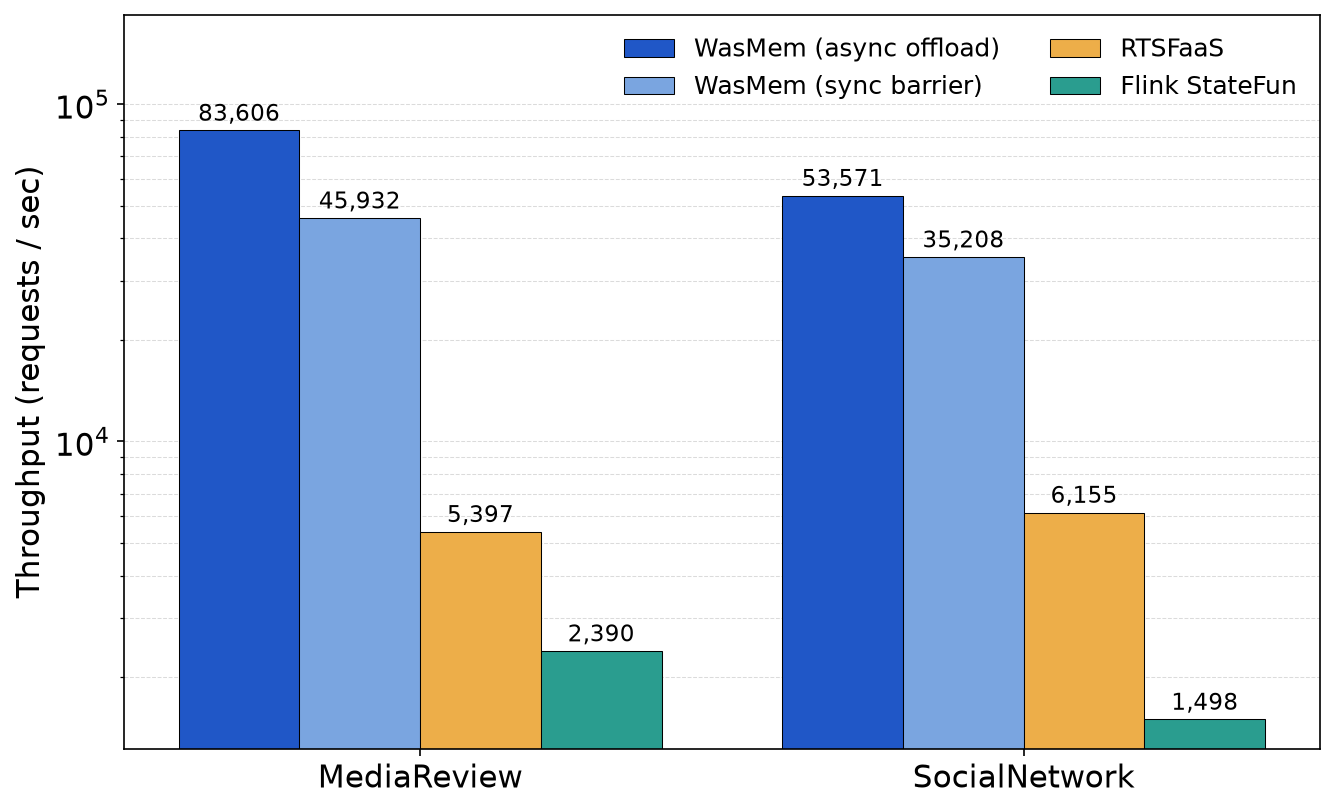
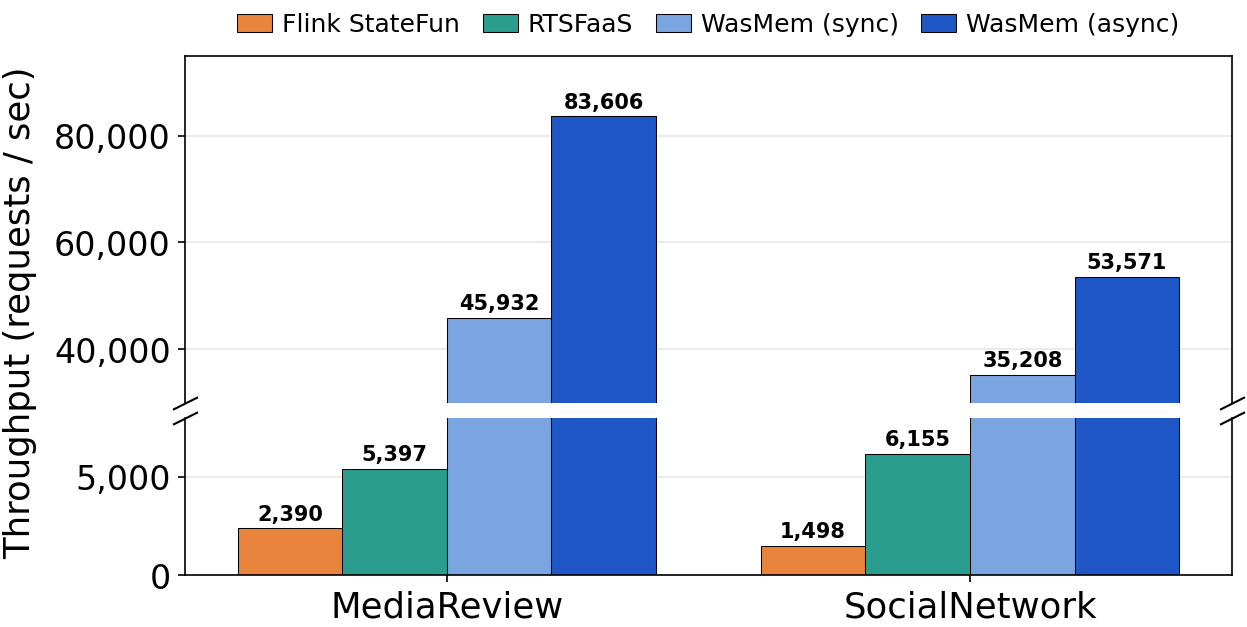
update the stream graph

diff --git a/Tests/Streaming Application_Benchmark/intra-node/plot.py b/Tests/Streaming Application_Benchmark/intra-node/plot.py
@@ -5,7 +5,10 @@
 # Grouped bars, throughput in requests/sec (= events/sec; fixed-batch max-rate,
 # single machine, 8-core budget). WasMem is shown WITH fault tolerance in two
 # modes — async offload (durable by end of run) and sync barrier (durable before
-# the next stage) — while RTSFaaS / Flink StateFun are FT-off. Log y (spread ~1.5k..84k).
+# the next stage) — while RTSFaaS / Flink StateFun are FT-off. The spread is
+# ~1.5k..84k with nothing in between, so instead of a log axis we use a two-level
+# broken (split) linear y-axis: a lower band (0..8k) for the RTSFaaS / StateFun
+# baselines and an upper band (30k..95k) for the WasMem bars.
 #
 # Reads the measured CSVs:
 #   results_was_ft_modes.csv      (ft_mode = async / sync_barrier)  -> WasMem
@@ -18,16 +21,18 @@ import os
 import matplotlib
 matplotlib.use('Agg')
 import matplotlib.pyplot as plt
+import matplotlib.ticker as mticker
 import numpy as np
 
 HERE = os.path.dirname(os.path.abspath(__file__))
 FIGS = os.path.join(HERE, 'figs')
 os.makedirs(FIGS, exist_ok=True)
 
-TICK_SIZE = 15
-LABEL_SIZE = 15
-LEGEND_SIZE = 16
-YLABEL_SIZE = 15
+# Font sizes matched to the application-benchmark figures (plot_mem_largest.py).
+TICK_SIZE = 16
+LABEL_SIZE = 17
+LEGEND_SIZE = 17
+YLABEL_SIZE = 17
 
 WORKLOADS = ['mediareview', 'socialnetwork']
 WL_LABEL = {'mediareview': 'MediaReview', 'socialnetwork': 'SocialNetwork'}
@@ -35,10 +40,10 @@ WL_LABEL = {'mediareview': 'MediaReview', 'socialnetwork': 'SocialNetwork'}
 # StateSync palette: ours = #2057c7 (WasMem blue); sync barrier a lighter blue so
 # the two WasMem modes group visually; baselines reuse the teal/amber slots.
 SERIES = [
-    ('was_async', 'WasMem (async offload)', '#2057c7'),
-    ('was_sync',  'WasMem (sync barrier)',  '#7aa5e0'),
-    ('rtsfaas',   'RTSFaaS',                '#edae49'),
-    ('statefun',  'Flink StateFun',         '#2a9d8f'),
+    ('statefun',  'Flink StateFun',         '#e8843c'),   # orange
+    ('rtsfaas',   'RTSFaaS',                '#2a9d8f'),   # teal (matches latency_throughput_remote.pdf)
+    ('was_sync',  'WasMem (sync)',  '#7aa5e0'),
+    ('was_async', 'WasMem (async)', '#2057c7'),
 ]
 
 data = {k: {} for k, _, _ in SERIES}
@@ -57,38 +62,81 @@ def load():
                 data[r['system']][r['workload']] = float(r['throughput_req_s'])
 
 
+# Two-level broken y-axis. Upper band holds the WasMem bars (all >= 35k); lower
+# band holds the RTSFaaS / StateFun baselines (all <= 6.2k). The empty 8k..30k gap
+# is cut out. LOW_TOP also = where a value is annotated on the lower vs upper axis.
+LOW_TOP = 8000.0          # top of the lower band
+HIGH_BOT, HIGH_TOP = 30000.0, 95000.0   # bounds of the upper band
+
+
 def main():
     load()
     n = len(SERIES)
     x = np.arange(len(WORKLOADS))
     width = 0.8 / n
 
-    fig, ax = plt.subplots(figsize=(9, 5.5))
+    # Two stacked axes sharing the x-axis; the upper band gets more height since
+    # it carries the main story (the WasMem bars).
+    fig, (ax_hi, ax_lo) = plt.subplots(
+        2, 1, sharex=True, figsize=(9, 4.5),
+        gridspec_kw={'height_ratios': [2.2, 1], 'hspace': 0.06})
+
     for i, (key, label, color) in enumerate(SERIES):
         vals = [data[key].get(w, 0) for w in WORKLOADS]
         offs = x + (i - (n - 1) / 2) * width
-        bars = ax.bar(offs, vals, width, label=label, color=color,
-                      edgecolor='black', linewidth=0.5)
-        for b, v in zip(bars, vals):
-            ax.annotate(f'{v:,.0f}', (b.get_x() + b.get_width() / 2, v),
-                        ha='center', va='bottom', fontsize=11,
+        # Same bars on both axes; each axis clips to its own band.
+        ax_hi.bar(offs, vals, width, label=label, color=color,
+                  edgecolor='black', linewidth=0.5)
+        ax_lo.bar(offs, vals, width, color=color,
+                  edgecolor='black', linewidth=0.5)
+        for b_x, v in zip(offs, vals):
+            ax = ax_hi if v >= LOW_TOP else ax_lo
+            ax.annotate(f'{v:,.0f}', (b_x, v), ha='center', va='bottom',
+                        fontsize=10, fontweight='bold',
                         xytext=(0, 2), textcoords='offset points')
 
-    ax.set_yscale('log')
-    ax.set_ylabel('Throughput (requests / sec)', fontsize=YLABEL_SIZE)
-    ax.set_xticks(x)
-    ax.set_xticklabels([WL_LABEL[w] for w in WORKLOADS], fontsize=LABEL_SIZE)
-    ax.tick_params(axis='y', labelsize=TICK_SIZE)
-    ax.legend(frameon=False, fontsize=LEGEND_SIZE - 4, ncol=2, loc='upper right')
-    ax.grid(axis='y', which='both', color='#cccccc', linestyle='--',
-            linewidth=0.5, alpha=0.7)
-    ax.set_axisbelow(True)
-    ax.set_ylim(top=max(v for d in data.values() for v in d.values()) * 2.2)
+    ax_hi.set_ylim(HIGH_BOT, HIGH_TOP)
+    ax_lo.set_ylim(0, LOW_TOP)
+    for ax in (ax_hi, ax_lo):
+        ax.tick_params(axis='y', labelsize=TICK_SIZE)
+        ax.grid(axis='y', alpha=0.3)
+        ax.set_axisbelow(True)
+        ax.yaxis.set_major_formatter(
+            mticker.FuncFormatter(lambda v, _: f'{v:,.0f}'))
 
-    fig.tight_layout()
+    # Hide the spines/ticks at the break and draw the diagonal break marks.
+    ax_hi.spines['bottom'].set_visible(False)
+    ax_lo.spines['top'].set_visible(False)
+    ax_hi.tick_params(axis='x', bottom=False)
+    d = 0.5
+    kw = dict(marker=[(-1, -d), (1, d)], markersize=12, linestyle='none',
+              color='k', mec='k', mew=1, clip_on=False)
+    ax_hi.plot([0, 1], [0, 0], transform=ax_hi.transAxes, **kw)
+    ax_lo.plot([0, 1], [1, 1], transform=ax_lo.transAxes, **kw)
+
+    ax_lo.set_xticks(x)
+    ax_lo.set_xticklabels([WL_LABEL[w] for w in WORKLOADS], fontsize=LABEL_SIZE)
+    # Tighten the side margins so the bars sit closer to the left/right borders.
+    ax_lo.set_xlim(x[0] - 0.5, x[-1] + 0.5)
+    # Centre the shared y-label vertically across both bands and pull it clear of
+    # the (wide) tick numbers.
+    fig.supylabel('Throughput (requests / sec)', fontsize=YLABEL_SIZE, x=-0.01)
+
+    # Legend as a single horizontal row centered just above the plot (matches the
+    # mem_largest_load layout). Anchored to the top axes so the gap to the plot is
+    # small and fixed; tightened columns/handles to keep it compact.
+    handles, labels = ax_hi.get_legend_handles_labels()
+    fig.legend(handles, labels, ncol=4, fontsize=LEGEND_SIZE - 5,
+               loc='lower center', bbox_to_anchor=(0.5, 0.99),
+               bbox_transform=ax_hi.transAxes,
+               frameon=False, columnspacing=0.9, handletextpad=0.4,
+               handlelength=1.4)
+
+    # No tight_layout (incompatible with the broken-axis supylabel); savefig's
+    # bbox_inches='tight' already crops to include the top legend.
     for ext in ('png', 'pdf'):
         out = os.path.join(FIGS, f'streaming_overlay.{ext}')
-        fig.savefig(out, dpi=150, bbox_inches='tight')
+        fig.savefig(out, dpi=150, bbox_inches='tight', pad_inches=0.02)
         print('wrote', out)
 
 